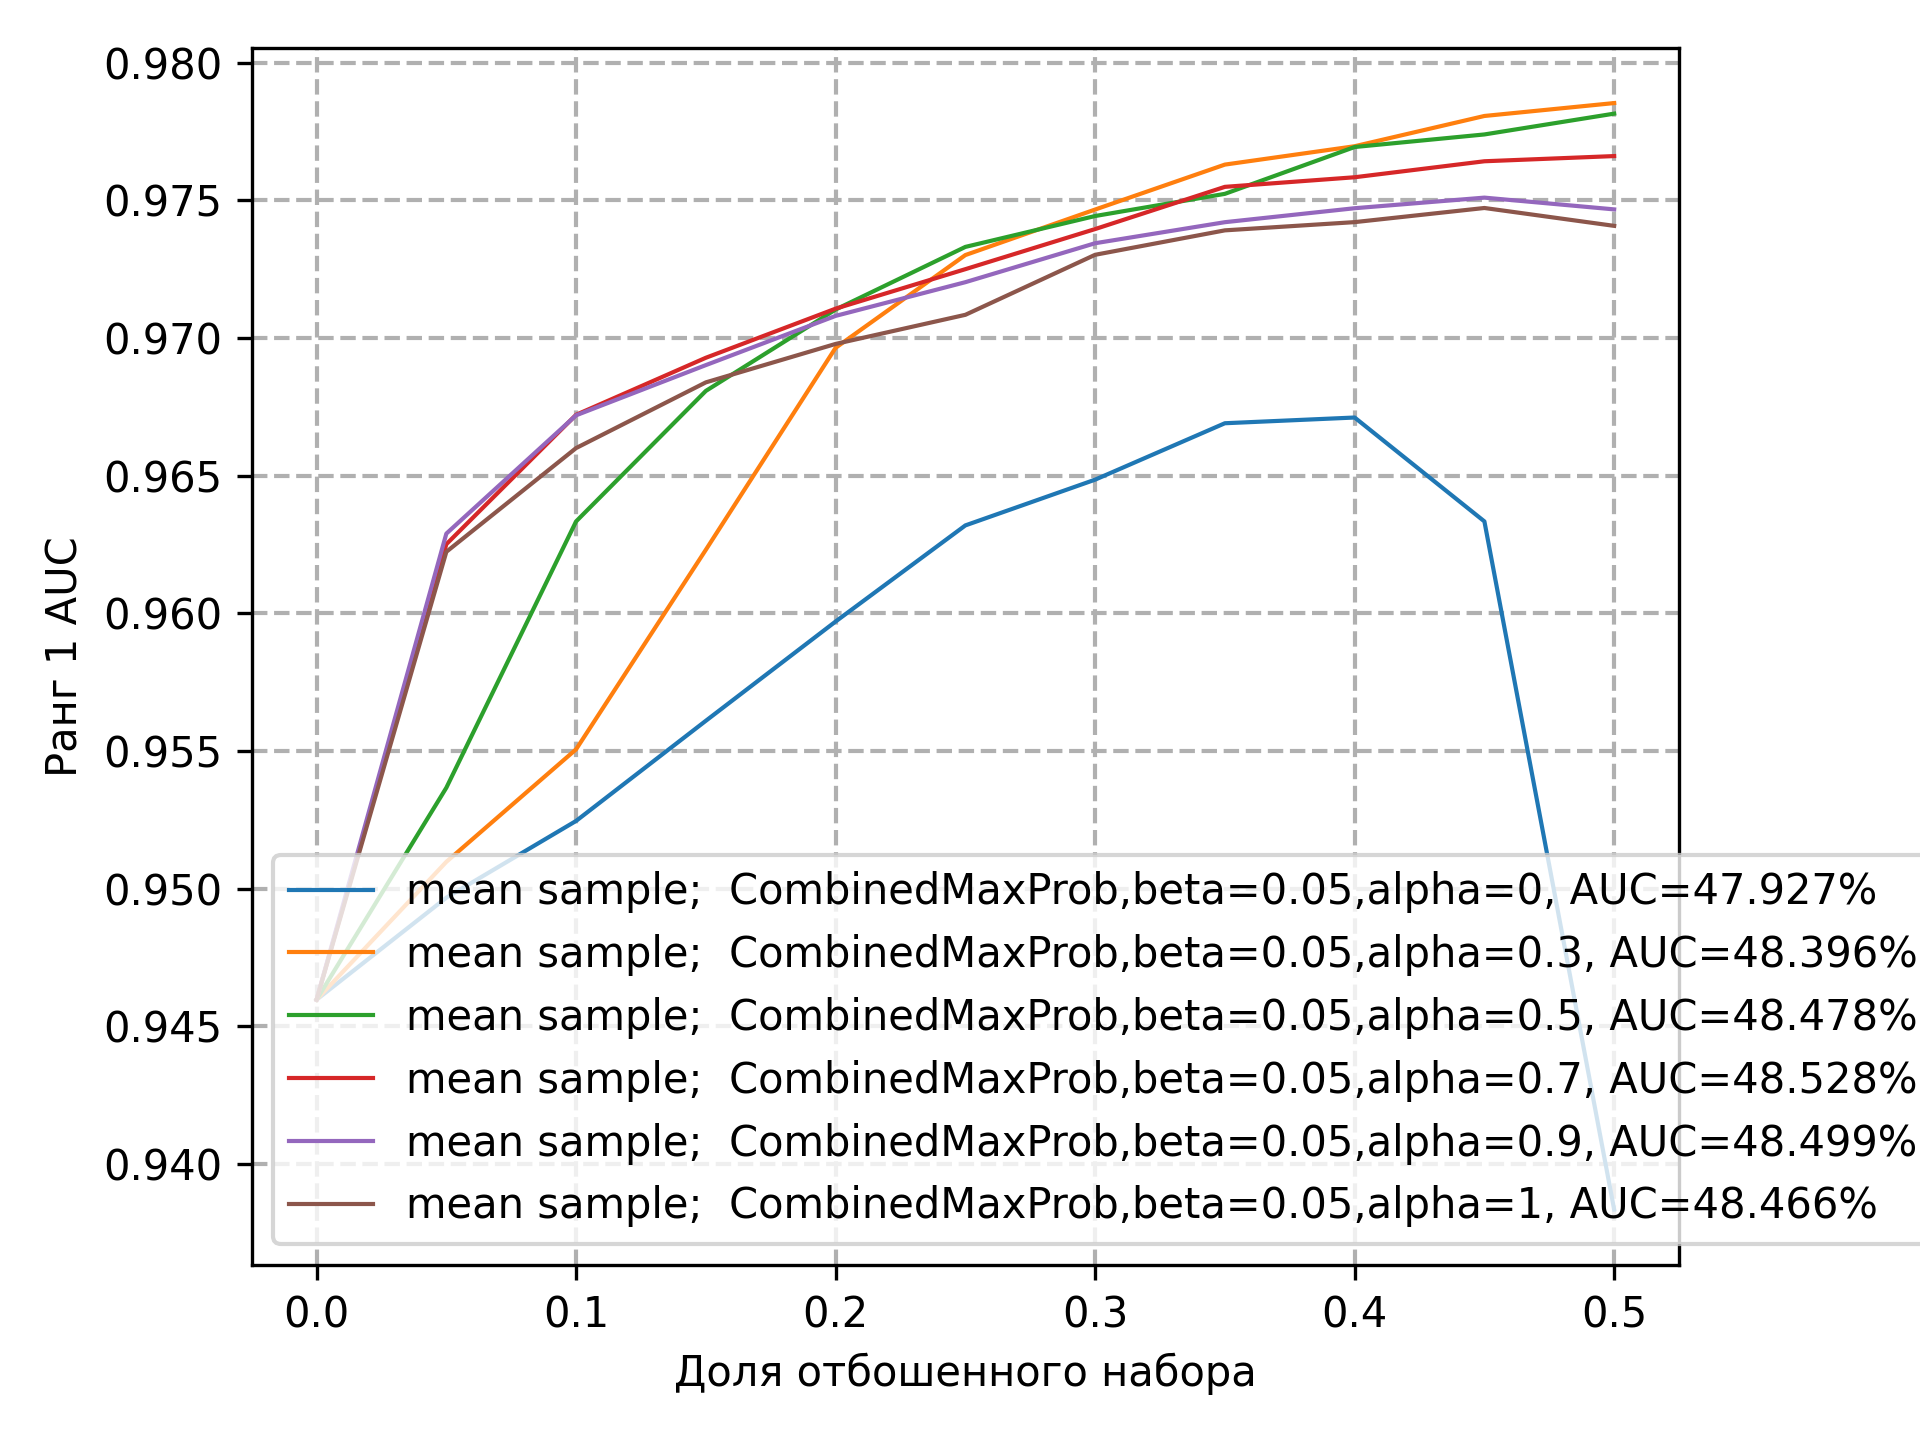
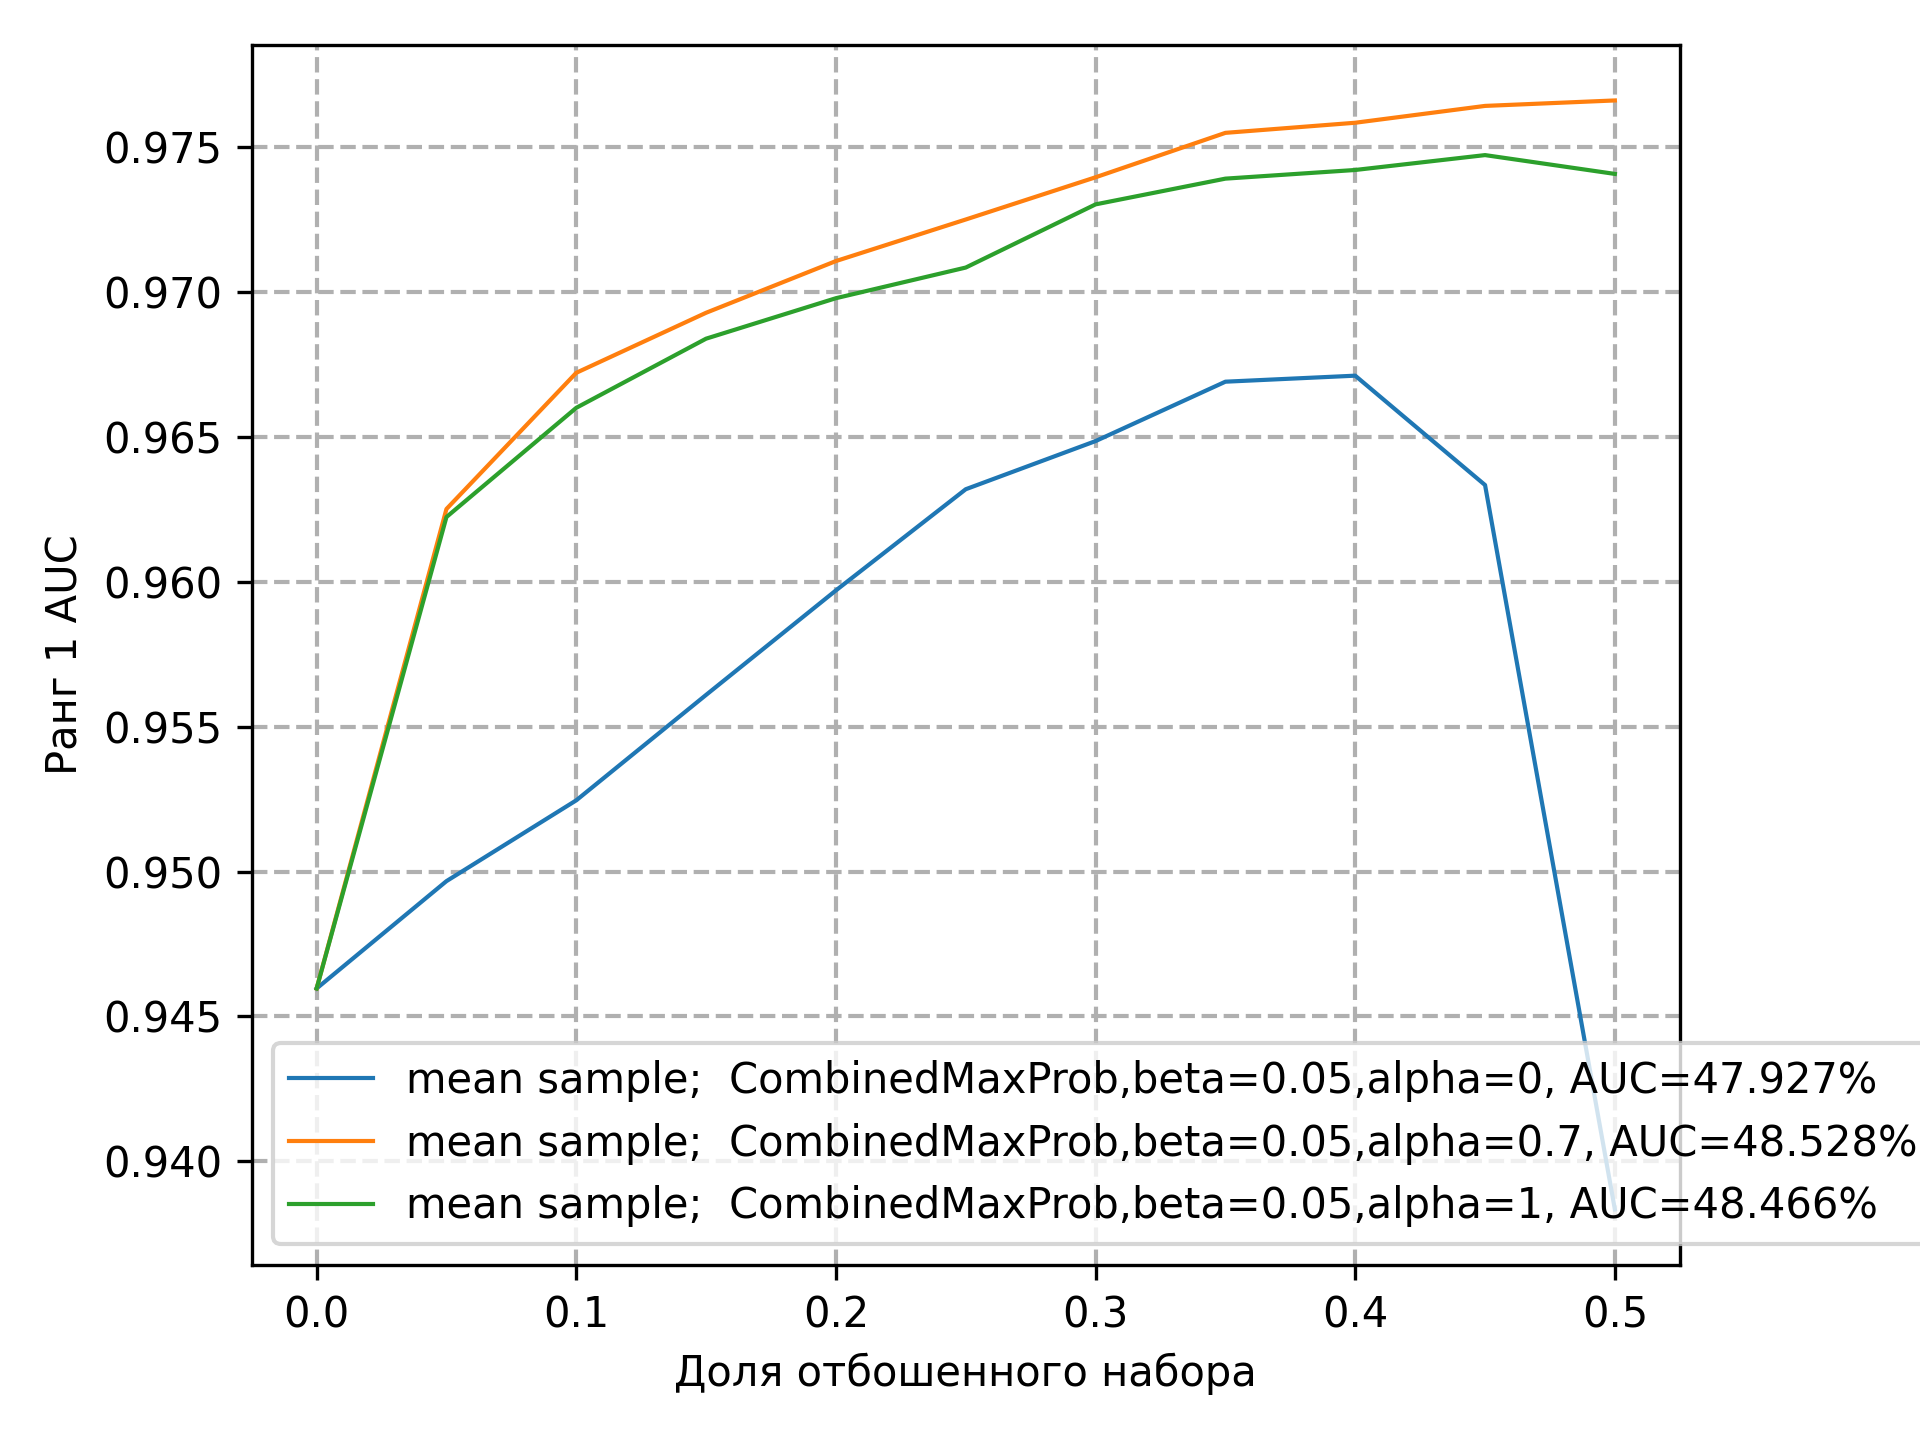
di metric

diff --git a/evaluation/metrics.py b/evaluation/metrics.py
@@ -8,52 +8,7 @@ from scipy import interpolate
 EvalMetricsT = Tuple[int, int, int, List[float], List[float], List[Tuple[float, float]]]
 
 
-class MeanDistanceReject:
-    def __init__(
-        self, metric_to_monitor: any, fractions: List[int], with_unc: bool
-    ) -> None:
-        self.fractions = np.arange(fractions[0], fractions[1], step=fractions[2])
-        self.metric_to_monitor = metric_to_monitor
-        self.with_unc = with_unc
 
-    def __call__(
-        self,
-        probe_ids: np.ndarray,
-        probe_template_unc: np.ndarray,
-        gallery_ids: np.ndarray,
-        similarity: np.ndarray,
-        probe_score: np.ndarray,
-    ) -> Any:
-        mean_probe_score = np.mean(probe_score)
-        unc_score = -np.abs(probe_score - mean_probe_score)
-
-        unc_indexes = np.argsort(unc_score)
-        aucs = {}
-        for fraction in self.fractions:
-            # drop worst fraction
-            good_probes_idx = unc_indexes[: int((1 - fraction) * probe_ids.shape[0])]
-            metric = self.metric_to_monitor(
-                probe_ids=probe_ids[good_probes_idx],
-                gallery_ids=gallery_ids,
-                similarity=similarity[good_probes_idx],
-                probe_score=probe_score[good_probes_idx],
-            )
-            for key, value in metric.items():
-                if "recalls" in key:
-                    rank = key.split("_")[1]
-                    auc_res = auc(metric["fars"], metric[key])
-                    aucs[f"final_auc_{rank}_unc_frac_{np.round(fraction, 3)}"] = auc_res
-                    if f"plot_auc_{rank}_rank_mean_dist_unc" in aucs:
-                        aucs[f"plot_auc_{rank}_rank_mean_dist_unc"].append(auc_res)
-                    else:
-                        aucs[f"plot_auc_{rank}_rank_mean_dist_unc"] = [auc_res]
-
-        for key in aucs:
-            if "plot_auc_" in key:
-                aucs[key] = np.array(aucs[key])
-        unc_metric = {"fractions": self.fractions}
-        unc_metric.update(aucs)
-        return unc_metric
 
 
 class CMC:
@@ -130,6 +85,9 @@ class TarFar:
         return metrics
 
 
+class DIRatFixedFAR:
+    def __init__(self, top_n_ranks: List[int], far) -> None:
+        pass
 class DetectionAndIdentificationRate:
     def __init__(
         self, top_n_ranks: List[int], far_range: List[int], display_fars: List[float]
@@ -206,21 +164,20 @@ class DetectionAndIdentificationRate:
                 )
                 recall_values.append(recall)
             recall_values = np.array(recall_values)
-            recall_name = f"top_{rank}_recalls"
+            recall_name = f"metric:recalls_{rank}_rank"
             recalls[recall_name] = recall_values
 
-        # metrics = dict(zip([f"top_{k}_count" for k in self.top_n_ranks], top_n_count))
         metrics = {}
         metrics.update({"fars": self.fars})
         metrics.update(recalls)
 
-        # compute final metrics
+        # compute metrics
         new_metrics = {}
         for key, value in metrics.items():
-            if "top" in key:
+            if "metric:recalls" in key:
                 # compute auc
                 rank = key.split("_")[1]
-                new_metrics[f"final_AUC_{rank}_rank"] = auc(
+                new_metrics[f"metric:AUC_{rank}_rank"] = auc(
                     metrics["fars"], metrics[key]
                 )
 
@@ -228,6 +185,6 @@ class DetectionAndIdentificationRate:
                 # interpolate tar@far curve
                 f = interpolate.interp1d(metrics["fars"], metrics[key])
                 for far in self.display_fars:
-                    new_metrics[f"final_top_{rank}_recall_at_far_{far}"] = f([far])[0]
+                    new_metrics[f"metric:recall-at-far_{far}_{rank}_rank"] = f([far])[0]
         metrics.update(new_metrics)
         return metrics

diff --git a/evaluation/ijb_evals.py b/evaluation/ijb_evals.py
@@ -95,36 +95,22 @@ def create_rejection_plots(
     metric_names = []
     for _, metric in open_set_uncertainty_result_metrics.items():
         for key in metric.keys():
-            if "plot_auc_" in key:
+            if "plot_reject" in key:
                 metric_names.append(key)
         break
-    for metric_name in metric_names:
-        rank = metric_name.split("_")[2]
-        model_names = []
-        scores = []
-        for model_name, metrics in open_set_uncertainty_result_metrics.items():
-            model_names.append(pretty_names[model_name])
-            scores.append((metrics["fractions"], metrics[metric_name]))
 
-        # fig = plot_rejection_scores(
-        #     scores=scores,
-        #     names=model_names,
-        #     y_label=f"Ранг {rank} AUC",
-        # )
-        # fig.savefig(
-        #     out_dir / f"rank_{rank}_{metric_name.split('_')[-1]}_rejection.png", dpi=300
-        # )
 
     # create unified plot of different rejection metrics for each rank
-    rank_to_unc_metrics = {}
+    rank_metric_to_unc_metrics = {}
     for metric_name in metric_names:
-        rank = metric_name.split("_")[2]
-        if rank in rank_to_unc_metrics:
-            rank_to_unc_metrics[rank].append(metric_name)
+        rank = metric_name.split("_")[-3]
+        metric = metric_name.split("_")[-4]
+        if (rank, metric) in rank_metric_to_unc_metrics:
+            rank_metric_to_unc_metrics[(rank, metric)].append(metric_name)
         else:
-            rank_to_unc_metrics[rank] = [metric_name]
+            rank_metric_to_unc_metrics[(rank, metric)] = [metric_name]
 
-    for rank, rank_metric_names in rank_to_unc_metrics.items():
+    for (rank, metric), rank_metric_names in rank_metric_to_unc_metrics.items():
         model_names = []
         scores = []
         for metric_name in rank_metric_names:
@@ -134,13 +120,13 @@ def create_rejection_plots(
                     pretty_names[model_name] + ";  " + pretty_unc_metric_name
                 )
                 scores.append((metrics["fractions"], metrics[metric_name]))
-
+        
         fig = plot_rejection_scores(
             scores=scores,
             names=model_names,
-            y_label=f"Ранг {rank} AUC",
+            y_label=f"Ранг {rank} {metric}",
         )
-        fig.savefig(out_dir / f"rank_{rank}_rejection.png", dpi=300)
+        fig.savefig(out_dir / f"rank_{rank}_{metric}_rejection.png", dpi=300)
 
 
 def create_open_set_ident_uncertainty_metric_table(

diff --git a/evaluation/uncertainty_metrics.py b/evaluation/uncertainty_metrics.py
@@ -21,7 +21,7 @@ def get_reject_metrics(
     fractions,
 ):
     unc_indexes = np.argsort(unc_score)
-    aucs = {}
+    unc_metrics ={"fractions": fractions}
     for fraction in fractions:
         # drop worst fraction
         good_probes_idx = unc_indexes[: int((1 - fraction) * probe_ids.shape[0])]
@@ -32,23 +32,32 @@ def get_reject_metrics(
             probe_score=probe_score[good_probes_idx],
         )
         for key, value in metric.items():
-            if "recalls" in key:
+            if "metric:AUC" in key:
                 rank = key.split("_")[1]
-                auc_res = auc(metric["fars"], metric[key])
-                aucs[
+                auc_res = metric[key]
+                unc_metrics[
                     f"final_auc_{rank}_unc_{metric_name}_frac_{np.round(fraction, 3)}"
                 ] = auc_res
-                if f"plot_auc_{rank}_rank_{metric_name}" in aucs:
-                    aucs[f"plot_auc_{rank}_rank_{metric_name}"].append(auc_res)
+                auc_metric_name = f"plot_reject_AUCS_{rank}_rank_{metric_name}"
+                if auc_metric_name in unc_metrics:
+                    unc_metrics[auc_metric_name].append(auc_res)
                 else:
-                    aucs[f"plot_auc_{rank}_rank_{metric_name}"] = [auc_res]
+                    unc_metrics[auc_metric_name] = [auc_res]
+            elif "metric:recall-at-far" in key:
+                far = key.split("_")[-3]
+                rank = key.split("_")[-2]
+                recall_at_far_metric_name = f"plot_reject_DIR-at-FAR-{far}_{rank}_rank_{metric_name}"
+                if recall_at_far_metric_name in unc_metrics:
+                    unc_metrics[recall_at_far_metric_name].append(metric[key])
+                else:
+                    unc_metrics[recall_at_far_metric_name] = [metric[key]]
+    
 
-    for key in aucs:
-        if "plot_auc_" in key:
-            aucs[key] = np.array(aucs[key])
-    unc_metric = {"fractions": fractions}
-    unc_metric.update(aucs)
-    return unc_metric
+    for key in unc_metrics:
+        if "plot_reject" in key:
+            unc_metrics[key] = np.array(unc_metrics[key])
+
+    return unc_metrics
 
 
 class OptimalReject:

diff --git a/evaluation/face_recognition_test.py b/evaluation/face_recognition_test.py
@@ -299,12 +299,12 @@ class Face_Fecognition_test:
                         probe_score=probe_score,
                     )
                 )
-            # warnings.warn("Aggregation of unc metrics is unchecked")
+            #warnings.warn("Aggregation of unc metrics is unchecked")
             for key in g2_metrics.keys():
-                if "recalls" in key or "AUC" in key or "top" in key:
+                if "metric:" in key:
                     metrics[key] = (metrics[key] + g2_metrics[key]) / 2
             for key in g2_unc_metrics.keys():
-                if "final_auc" in key or "plot_auc" in key:
+                if "final_auc" in key or "plot_reject" in key:
                     unc_metrics[key] = (unc_metrics[key] + g2_unc_metrics[key]) / 2
 
         else:
